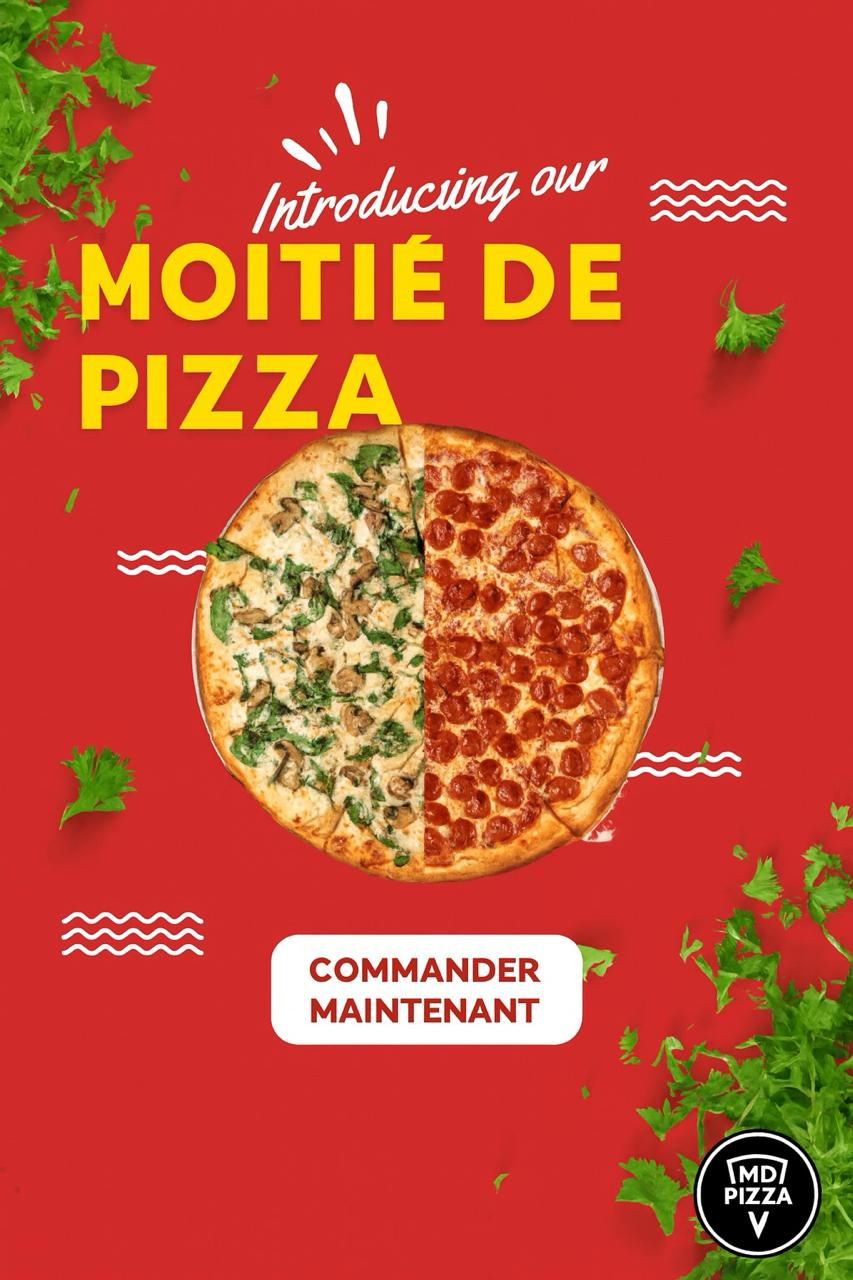
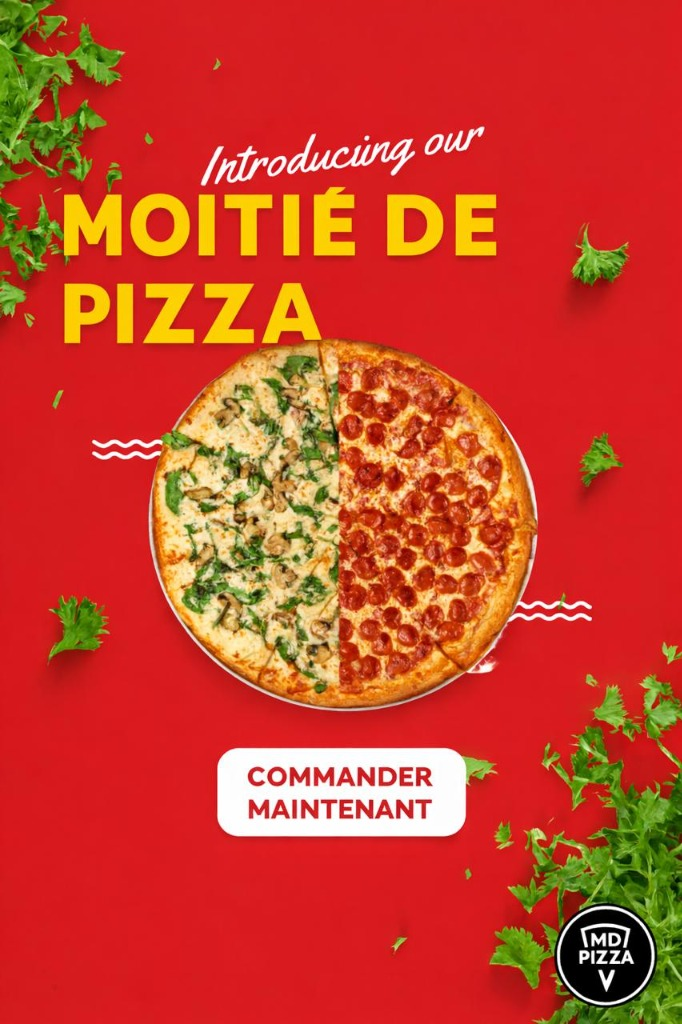
chore: update pizza visual with high-res asset and set tennis design to 3D category

diff --git a/src/components/Portfolio.jsx b/src/components/Portfolio.jsx
@@ -18,12 +18,12 @@ const allImages = [
   { src: '/asset_9.jpeg',       label: 'Publicité Digitale & Display',                 cat: 'Digital' },
   { src: '/asset_10.jpeg',      label: 'Social Media — Galerie Galet',                 cat: '2D' },
   { src: '/jbl.jpeg',           label: 'Branding Produit — JBL',                       cat: '2D' },
-  { src: '/asset_11.jpeg',      label: 'Design Créatif 2D',                            cat: '2D' },
-  { src: '/asset_12.jpeg',      label: 'Design Créatif 2D',                            cat: '2D' },
-  { src: '/asset_13.jpeg',      label: 'Design Créatif 2D',                            cat: '2D' },
-  { src: '/asset_14.jpeg',      label: 'Design Créatif 2D',                            cat: '2D' },
-  { src: '/asset_15.jpeg',      label: 'Design Créatif 2D',                            cat: '2D' },
-  { src: '/asset_16.jpeg',      label: 'Design Créatif 2D',                            cat: '2D' },
+  { src: '/asset_11.jpeg',      label: 'Campagne Visuelle — Bloon Paris',              cat: '2D' },
+  { src: '/asset_12.jpeg',      label: 'Visuel Commercial — Négotaux',                 cat: '2D' },
+  { src: '/asset_13.jpeg',      label: 'Affiche Sportive — Tropical Padel',            cat: '2D' },
+  { src: '/asset_14.jpeg',      label: 'Affiche Immobilière — La Maison',              cat: '2D' },
+  { src: '/asset_15.jpeg',      label: 'Rendu 3D — Tropical Padel',                    cat: '3D' },
+  { src: '/asset_16.jpeg',      label: 'Plaquette Immobilière — Luxe Dordogne',        cat: '2D' },
 ];
 
 const getCategories = (t) => [
